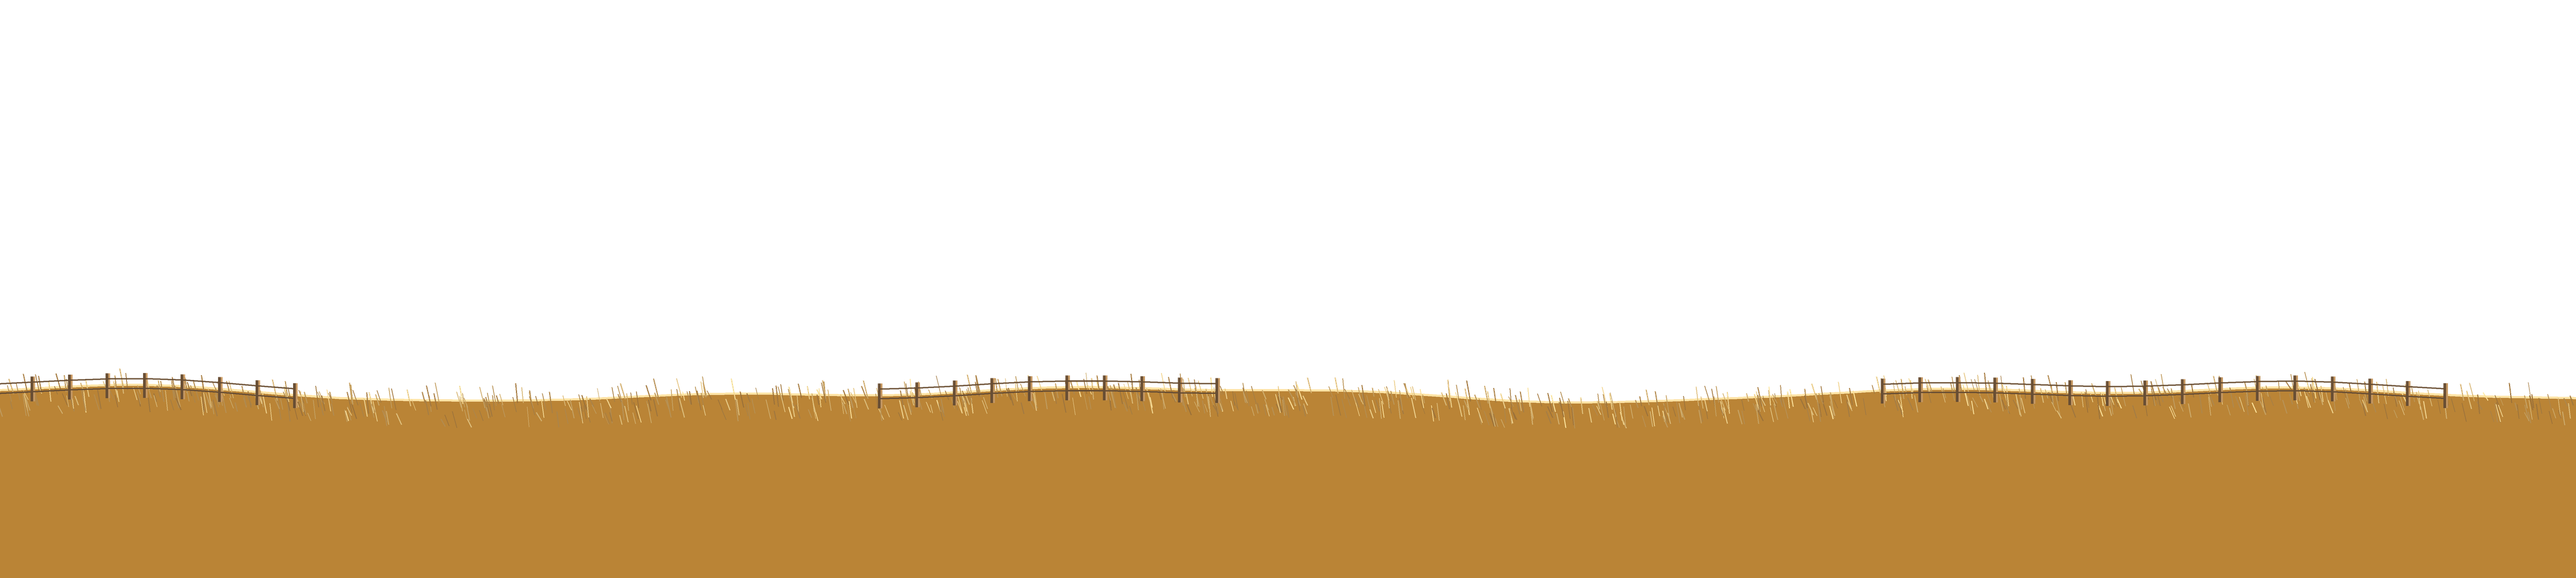
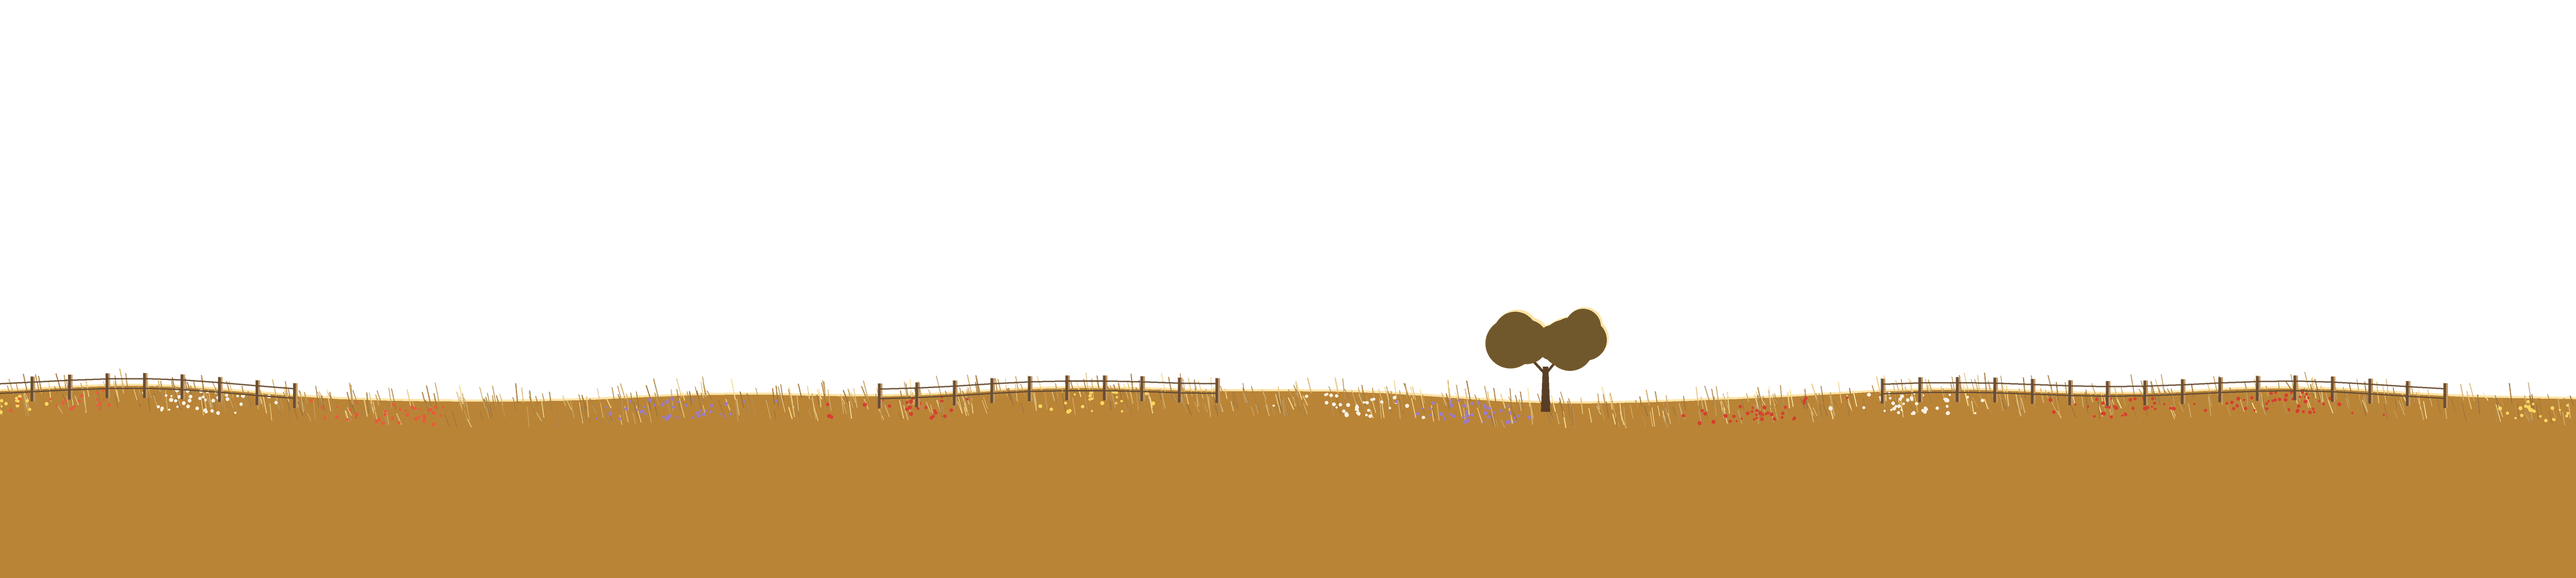
금빛 들판 배경 채우기 (#140)
밋밋하다는 의견을 받아 채웠다.
- 하늘: 높은 새털구름, 새 떼
- 지평선·먼 산: 해를 등진 비탈의 그늘, 산자락 숲, 마을 하나 더
- 구릉: 조각보 밭(갈아엎은 밭은 고랑), 밭 경계 산울타리, 농가, 양 떼, 풍차 하나 더
- 가운데 언덕: 붉은 헛간 둘, 참나무, 허수아비, 건초 수레
- 가까운 밭: 들꽃 무리(양귀비·데이지·라벤더·노랑), 밭가의 큰 나무
장식은 따로 난수(field_deco)를 써서 원래 배치(덤불·정류장)는 그대로다.

Claude-Session: https://claude.ai/code/session_01J4uuBjb9dFExxEE8Rhw3pJ

diff --git a/tools/placeholder_art.py b/tools/placeholder_art.py
@@ -223,6 +223,16 @@ def _rim_ridge(L: Layer, pts: list[tuple[float, float]], body: Color, rim: Color
     L.poly(pts, body)
 
 
+def _slope_shade(L: Layer, pts: list[tuple[float, float]], color: Color, depth: float, blur: float) -> None:
+    """해(오른쪽)를 등진 비탈(오른쪽으로 올라가는 곳)에 그늘을 흐리게 깐다."""
+    quads = []
+    for (xa, ya), (xb, yb) in zip(pts[1:-2], pts[2:-1]):
+        if yb < ya - 0.5:
+            k = min(1.0, (ya - yb) / max(xb - xa, 1.0) * 4.0)
+            quads.append(("poly", [(xa, ya + 4), (xb, yb + 4), (xb, yb + depth * k), (xa, ya + depth * k)], color))
+    L.haze(quads, blur)
+
+
 def _ridge_y(pts: list[tuple[float, float]], x: float) -> float:
     for (xa, ya), (xb, yb) in zip(pts[1:-2], pts[2:-1]):
         if xa <= x <= xb:
@@ -314,6 +324,87 @@ def _grass_tuft(L: Layer, rng: random.Random, x: float, base: float, scale: floa
                            tx + lean * 0.04 * k + 4 * scale, ty + k * 7 * scale + 5 * scale), tip)
 
 
+
+def _farmhouse(L: Layer, x: float, y: float, s: float, wall: Color, roof: Color, rim: Color) -> None:
+    """농가: 흰 벽, 붉은 박공지붕, 굴뚝. 해 쪽 지붕 끝에 테."""
+    w, h = 70 * s, 40 * s
+    L.rect(x, y - h, x + w, y + 2, wall)
+    L.rect(x + w * 0.62, y - h - 30 * s, x + w * 0.74, y - h, roof)  # 굴뚝
+    L.poly([(x - 6 * s + 3, y - h), (x + w * 0.5 + 3, y - h - 34 * s - 3), (x + w + 6 * s + 3, y - h)], rim)
+    L.poly([(x - 6 * s, y - h), (x + w * 0.5, y - h - 34 * s), (x + w + 6 * s, y - h)], roof)
+    for k in range(2):  # 창
+        wx = x + w * (0.22 + k * 0.42)
+        L.rect(wx, y - h * 0.65, wx + 10 * s, y - h * 0.3, rgba(255, 226, 150, 220))
+
+
+def _barn(L: Layer, x: float, y: float, s: float, wall: Color, roof: Color, rim: Color) -> None:
+    """붉은 헛간: 꺾인 지붕, 큰 문에 X자 나무."""
+    w, h = 120 * s, 70 * s
+    L.rect(x, y - h, x + w, y + 2, wall)
+    top = [(x - 6 * s, y - h), (x + w * 0.16, y - h - 34 * s), (x + w * 0.5, y - h - 52 * s),
+           (x + w * 0.84, y - h - 34 * s), (x + w + 6 * s, y - h)]
+    L.poly([(px + 3, py - 3) for px, py in top], rim)
+    L.poly(top, roof)
+    dx0, dx1 = x + w * 0.32, x + w * 0.68
+    L.rect(dx0, y - h * 0.75, dx1, y + 2, roof)
+    L.line([(dx0, y - h * 0.75), (dx1, y)], wall, 3 * s)
+    L.line([(dx1, y - h * 0.75), (dx0, y)], wall, 3 * s)
+
+
+def _sheep(L: Layer, rng: random.Random, x: float, y: float, n: int, s: float, wool: Color, dark: Color) -> None:
+    """풀 뜯는 양 몇 마리: 둥근 몸, 검은 머리."""
+    for _ in range(n):
+        sx = x + rng.uniform(-60, 60) * s
+        sy = y + rng.uniform(-6, 8) * s
+        d = rng.choice((-1, 1))
+        L.ellipse((sx - 9 * s, sy - 12 * s, sx + 9 * s, sy), wool)
+        L.ellipse((sx + d * 8 * s - 3 * s, sy - 9 * s, sx + d * 8 * s + 3 * s, sy - 3 * s), dark)
+
+
+def _oak(L: Layer, rng: random.Random, x: float, y: float, r: float, body: Color, rim: Color, trunk: Color) -> None:
+    """큰 참나무: 굵은 줄기와 가지, 넓게 퍼진 잎 덩어리."""
+    L.poly([(x - r * 0.12, y), (x + r * 0.12, y), (x + r * 0.07, y - r * 1.2), (x - r * 0.07, y - r * 1.2)], trunk)
+    for a in (-0.7, 0.6):
+        L.line([(x, y - r * 1.0), (x + a * r * 0.8, y - r * 1.6)], trunk, r * 0.07)
+    balls = []
+    for _ in range(9):
+        balls.append((x + rng.uniform(-1.1, 1.1) * r, y - r * rng.uniform(1.5, 2.3), r * rng.uniform(0.45, 0.7)))
+    for bx, by, rr in balls:
+        d = rr * 0.1
+        L.ellipse((bx - rr + d, by - rr - d, bx + rr + d, by + rr - d), rim)
+    for bx, by, rr in balls:
+        L.ellipse((bx - rr, by - rr, bx + rr, by + rr), body)
+
+
+def _scarecrow(L: Layer, x: float, y: float, s: float, body: Color, hat: Color) -> None:
+    """허수아비: 막대 십자, 헐렁한 옷, 챙 넓은 모자."""
+    L.line([(x, y), (x, y - 110 * s)], body, 4 * s)
+    L.line([(x - 40 * s, y - 78 * s), (x + 40 * s, y - 74 * s)], body, 4 * s)
+    L.poly([(x - 18 * s, y - 84 * s), (x + 18 * s, y - 84 * s), (x + 22 * s, y - 40 * s), (x - 22 * s, y - 40 * s)], hat)
+    L.ellipse((x - 9 * s, y - 108 * s, x + 9 * s, y - 88 * s), body)
+    L.ellipse((x - 22 * s, y - 112 * s, x + 22 * s, y - 104 * s), hat)
+    L.poly([(x - 9 * s, y - 108 * s), (x, y - 126 * s), (x + 9 * s, y - 108 * s)], hat)
+
+
+def _hay_cart(L: Layer, x: float, y: float, s: float, wood: Color, hay: Color, lit: Color) -> None:
+    """건초를 실은 나무 수레: 큰 바퀴 둘, 앞으로 뻗은 끌채."""
+    L.ellipse((x - 70 * s, y - 70 * s, x + 50 * s, y - 20 * s), hay)
+    L.ellipse((x - 40 * s, y - 72 * s, x + 46 * s, y - 40 * s), lit)
+    L.rect(x - 74 * s, y - 32 * s, x + 54 * s, y - 22 * s, wood)
+    for wx in (x - 46 * s, x + 26 * s):
+        L.ellipse((wx - 20 * s, y - 40 * s, wx + 20 * s, y), wood)
+        L.ellipse((wx - 12 * s, y - 32 * s, wx + 12 * s, y - 8 * s), hay)
+    L.line([(x - 74 * s, y - 26 * s), (x - 130 * s, y - 12 * s)], wood, 4 * s)
+
+
+def _flock(L: Layer, rng: random.Random, x: float, y: float, n: int, color: Color) -> None:
+    """먼 새 떼: 작은 V 여럿."""
+    for _ in range(n):
+        bx, by = x + rng.uniform(-90, 90), y + rng.uniform(-30, 30)
+        sz = rng.uniform(5, 9)
+        L.line([(bx - sz, by - sz * 0.5), (bx, by), (bx + sz, by - sz * 0.6)], color, 1.6)
+
+
 def field(width: float, markers: dict[str, float]) -> dict[str, Layer]:
     rng = random.Random("field")
     layers: dict[str, Layer] = {}
@@ -348,12 +439,22 @@ def field(width: float, markers: dict[str, float]) -> dict[str, Layer]:
         L.blur_groups.append((body, 2.5))
         L.haze(lit, 4)
     L.ellipse((sun_x - 40, sun_y - 40, sun_x + 40, sun_y + 40), rgba(255, 250, 232))
+    deco = random.Random("field_deco")
+    wisps = []
+    for _ in range(14):  # 높은 새털구름
+        cx, cy = deco.uniform(0, w), deco.uniform(60, 220)
+        ln = deco.uniform(200, 520)
+        wisps.append(("line", [(cx, cy), (cx + ln * 0.5, cy - 6), (cx + ln, cy + 4)], rgba(255, 244, 232, 70), deco.uniform(6, 12)))
+    L.haze(wisps, 7)
+    for _ in range(4):
+        _flock(L, deco, deco.uniform(200, w - 200), deco.uniform(300, 480), deco.randint(4, 8), rgba(90, 80, 96, 170))
 
     # 지평선: 아주 먼 산맥. 거의 하늘색에 묻힌다.
     w = layer_width(width, "horizon")
     layers["horizon"] = L = Layer(w)
     pts = ridge(rng, w, 470, 170, waves=4)
     _rim_ridge(L, pts, _fog((104, 126, 184), 0.5), rgba(*FIELD_RIM, 200), 2)
+    _slope_shade(L, pts, rgba(80, 92, 150, 70), 260, 30)
     L.haze([("poly", [(-20, 560), (w + 20, 560), (w + 20, 640), (-20, 640)], rgba(*FIELD_HAZE, 150))], 30)
 
     # 먼 산 + 언덕 위 마을.
@@ -362,6 +463,7 @@ def field(width: float, markers: dict[str, float]) -> dict[str, Layer]:
     body = _fog((104, 92, 132), 0.36)
     pts = ridge(rng, w, 575, 95, waves=3)
     _rim_ridge(L, pts, body, rgba(*FIELD_RIM, 210), 2.5)
+    _slope_shade(L, pts, rgba(70, 62, 110, 80), 200, 24)
     for vx in (rng.uniform(600, 1400), rng.uniform(2600, 3600)):
         if vx < w - 400:
             _village(L, rng, vx, _ridge_y(pts, vx) + 6, body, rgba(*FIELD_RIM, 210))
@@ -369,6 +471,15 @@ def field(width: float, markers: dict[str, float]) -> dict[str, Layer]:
     while x < w:
         _poplar(L, x, _ridge_y(pts, x) + 8, rng.uniform(60, 90), body, rgba(*FIELD_RIM, 180))
         x += rng.uniform(150, 600)
+    darker = _fog((84, 78, 112), 0.4)
+    for _ in range(int(w / 700)):  # 산자락 숲: 작은 나무 덩어리가 모인 곳
+        fx = deco.uniform(0, w)
+        for _ in range(deco.randint(18, 34)):
+            tx = fx + deco.uniform(-160, 160)
+            ty = _ridge_y(pts, tx) + deco.uniform(10, 60)
+            r = deco.uniform(8, 14)
+            L.ellipse((tx - r, ty - r * 1.6, tx + r, ty + r * 0.3), darker)
+    _village(L, deco, w * 0.62, _ridge_y(pts, w * 0.62) + 6, body, rgba(*FIELD_RIM, 210))
     L.haze([("poly", [(-20, 620), (w + 20, 620), (w + 20, 690), (-20, 690)], rgba(*FIELD_HAZE, 120))], 24)
 
     # 구릉: 산울타리 나무 줄, 풍차.
@@ -378,6 +489,26 @@ def field(width: float, markers: dict[str, float]) -> dict[str, Layer]:
     rim = rgba(*FIELD_RIM, 220)
     pts = ridge(rng, w, 640, 60, waves=3)
     _rim_ridge(L, pts, body, rim, 3)
+    tints = [_fog((156, 120, 58), 0.28), _fog((120, 112, 58), 0.28), _fog((142, 96, 58), 0.28), _fog((170, 138, 72), 0.28)]
+    x = -20.0
+    while x < w:  # 조각보 밭: 비스듬한 경계로 나뉜 밭, 갈아엎은 밭에는 고랑
+        fw = deco.uniform(220, 560)
+        sl = deco.uniform(-80, 80)
+        c = deco.choice(tints)
+        top_a, top_b = _ridge_y(pts, x) + 10, _ridge_y(pts, x + fw) + 10
+        L.poly([(x, top_a), (x + fw, top_b), (x + fw + sl, 740), (x + sl, 740)], c)
+        if c == tints[2]:
+            for k in range(1, 7):
+                t = k / 7
+                L.line([(x + fw * t, _ridge_y(pts, x + fw * t) + 12), (x + fw * t + sl, 740)], _fog((118, 80, 50), 0.28, 160), 1.5)
+        L.line([(x, top_a), (x + sl, 740)], _fog((92, 84, 52), 0.28, 200), 3)  # 밭 경계 산울타리
+        x += fw
+    for _ in range(3):  # 농가
+        fx = deco.uniform(300, w - 300)
+        _farmhouse(L, fx, _ridge_y(pts, fx) + 26, 0.7, _fog((236, 222, 196), 0.28), _fog((176, 70, 50), 0.28), rim)
+    for _ in range(4):  # 양 떼
+        sx = deco.uniform(200, w - 200)
+        _sheep(L, deco, sx, _ridge_y(pts, sx) + 40, deco.randint(4, 7), 0.8, _fog((244, 236, 220), 0.25), _fog((70, 60, 56), 0.28))
     x = 80.0
     while x < w:  # 밭 경계의 나무 줄
         run = rng.uniform(300, 700)
@@ -388,6 +519,7 @@ def field(width: float, markers: dict[str, float]) -> dict[str, Layer]:
         x += run + rng.uniform(250, 700)
     mill_x = w * 0.55
     _windmill(L, mill_x, _ridge_y(pts, mill_x) + 6, 0.8, body, rim, 0.35)
+    _windmill(L, w * 0.18, _ridge_y(pts, w * 0.18) + 6, 0.6, body, rim, 1.1)
     L.haze([("poly", [(-20, 680), (w + 20, 680), (w + 20, 730), (-20, 730)], rgba(*FIELD_HAZE, 110))], 20)
 
     # 가운데 언덕: 나무 덩어리, 건초더미, 멀리까지 이어진 전봇대 줄(2-1).
@@ -412,6 +544,15 @@ def field(width: float, markers: dict[str, float]) -> dict[str, Layer]:
             _hay_bale(L, bx, _ridge_y(hill, bx) + 14, rng.uniform(13, 18), _fog((196, 150, 78), 0.18),
                       _fog((240, 200, 120), 0.1), _fog((120, 92, 56), 0.2, 120))
         x += rng.uniform(700, 1600)
+    mid_wall, mid_roof = _fog((214, 196, 166), 0.12), _fog((168, 62, 44), 0.12)
+    for bx in (w * 0.22, w * 0.7):
+        _barn(L, bx, _ridge_y(hill, bx) + 12, 0.9, mid_wall, mid_roof, rim)
+    for ox in (w * 0.08, w * 0.45, w * 0.86):
+        _oak(L, deco, ox, _ridge_y(hill, ox) + 10, 46, _fog((104, 86, 46), 0.1), rim, _fog((84, 62, 40), 0.1))
+    for sx in (w * 0.33, w * 0.6):
+        _scarecrow(L, sx, _ridge_y(hill, sx) + 18, 0.9, _fog((96, 72, 50), 0.12), _fog((176, 130, 64), 0.1))
+    cx = w * 0.52
+    _hay_cart(L, cx, _ridge_y(hill, cx) + 16, 0.9, _fog((100, 72, 48), 0.12), _fog((214, 168, 82), 0.1), _fog((244, 206, 128), 0.06))
     tops = []
     for x in range(160, w, 300):
         y = _ridge_y(hill, x) + 4
@@ -433,6 +574,18 @@ def field(width: float, markers: dict[str, float]) -> dict[str, Layer]:
         h = rng.uniform(14, 40)
         lean = rng.uniform(-10, -3)
         L.line([(x, y0), (x + lean, y0 - h)], lerp_color(_fog((150, 108, 52), 0.05), rgba(250, 222, 150), rng.random() ** 1.5), rng.uniform(1.2, 2.2))
+    flower_cols = [rgba(214, 64, 48), rgba(232, 92, 60), rgba(246, 240, 226), rgba(156, 124, 196), rgba(250, 214, 96)]
+    x = 0.0
+    while x < w:  # 들꽃 무리: 한 색이 모여 핀다
+        c = deco.choice(flower_cols)
+        for _ in range(deco.randint(20, 50)):
+            fx = x + deco.gauss(0, 60)
+            fy = _ridge_y(band, fx) + deco.uniform(4, 44)
+            r = deco.uniform(1.8, 3.6)
+            L.ellipse((fx - r, fy - r, fx + r, fy + r), c)
+        x += deco.uniform(180, 520)
+    for tx in (w * 0.15, w * 0.48, w * 0.8):  # 밭가의 큰 나무
+        _oak(L, deco, tx, _ridge_y(band, tx) + 16, 70, rgba(112, 88, 44), rgba(*FIELD_RIM, 240), rgba(88, 62, 38))
     fence_dark, fence_lit = rgba(104, 78, 52), rgba(196, 150, 96)
     x = rng.uniform(200, 600)
     while x < w:  # 나무 울타리(끊어졌다 이어진다)
